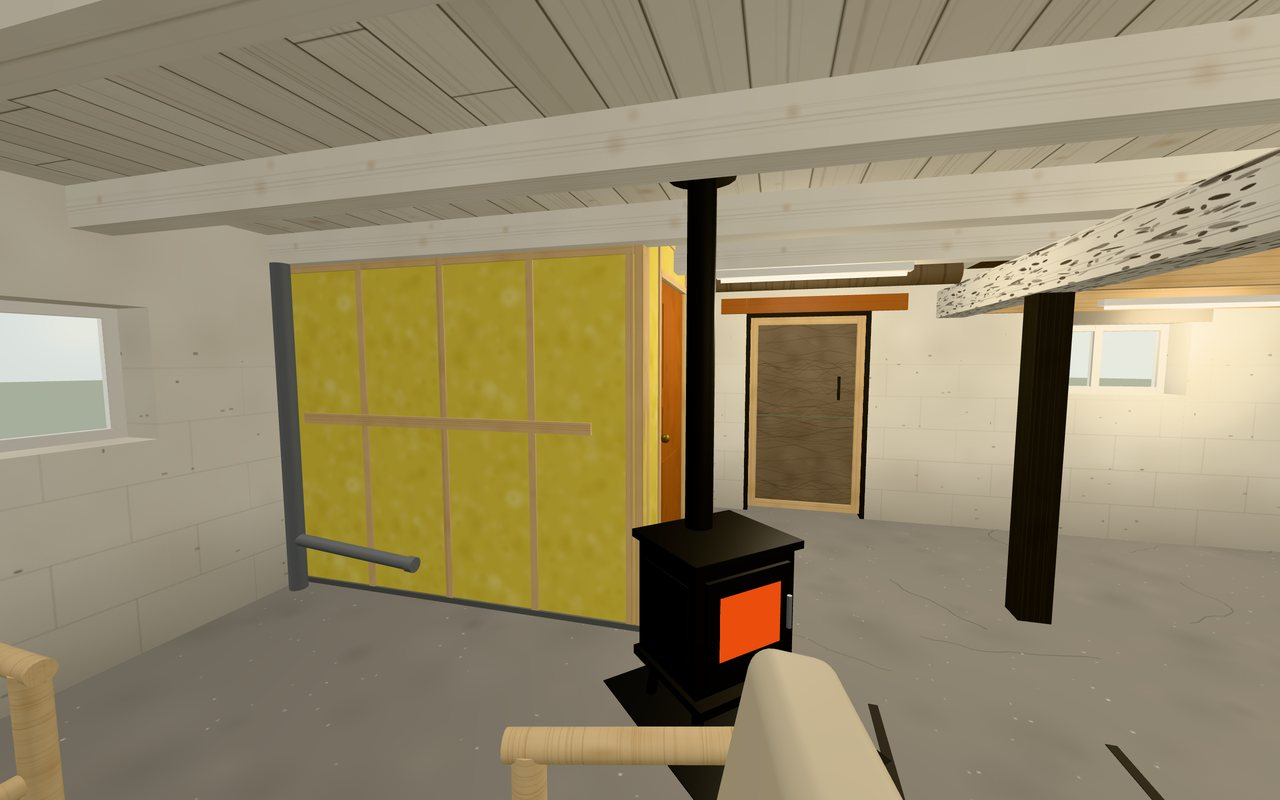
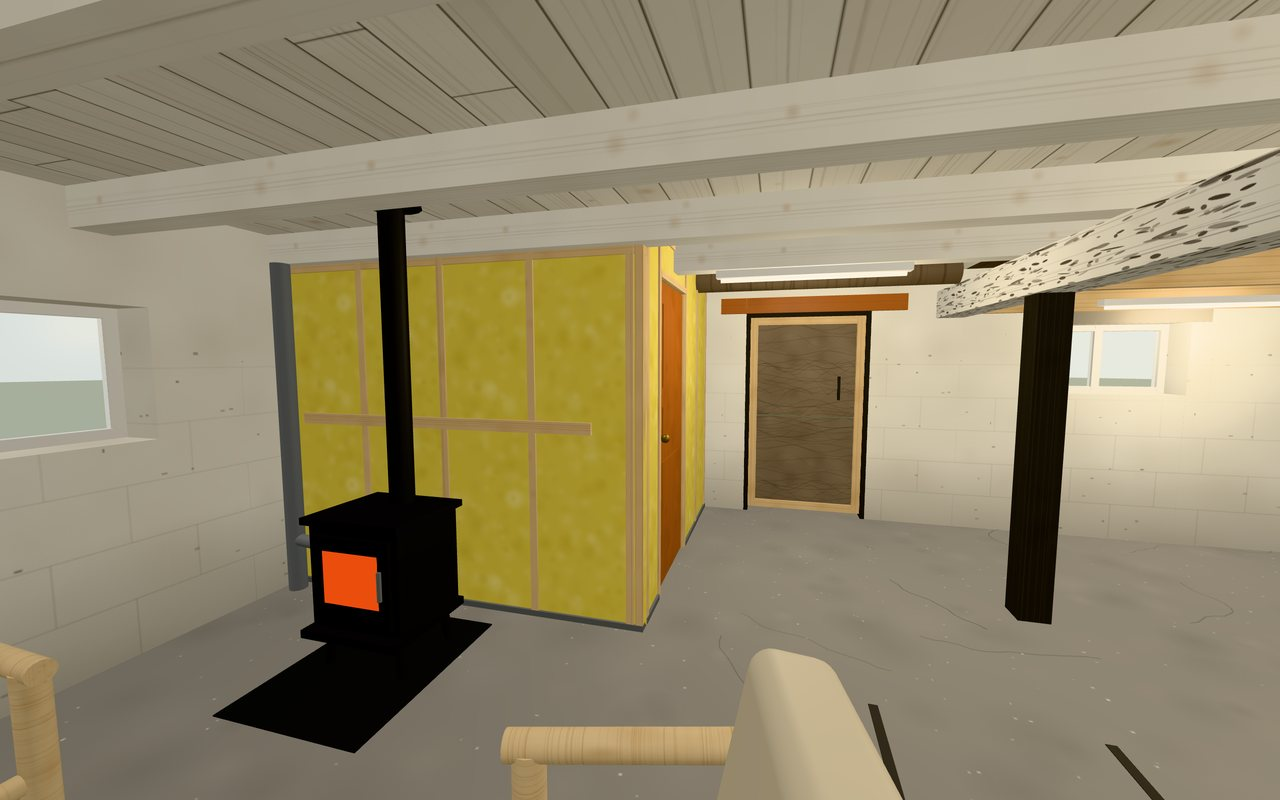
Ställ braskaminen mitt på nya rummets vägg
Kaminen står med ryggen mot regelväggen mot soffhörnan i stället för
vid ytterhörnet, med rökröret rakt upp genom taket.

Claude-Session: https://claude.ai/code/session_01Pv6CpKizXL3M9PiPypFNnz

Changed region(s): [[0.1562, 0.25, 0.375, 0.9375], [0.4688, 0.2188, 0.625, 0.9062], [0.5312, 0.9375, 0.5625, 1.0]]

diff --git a/stallet/src/dimensions.ts b/stallet/src/dimensions.ts
@@ -153,11 +153,16 @@ export const furniture = {
   },
 
   /**
-   * Braskamin i gjutjärn vid nya rummets ytterhörn, snett utåt mot rummet. `cornerGap` är
-   * avståndet från hörnet till kaminens mitt. Rökröret går rakt upp genom taket
-   * (`flue: 'wall'` drar det i stället bakåt genom en vägg).
+   * Braskamin i gjutjärn mitt på nya rummets vägg mot soffhörnan, vänd ut mot rummet.
+   * `wallGap` är luften mellan kaminens rygg och regelväggen. Rökröret går rakt upp genom
+   * taket (`flue: 'wall'` drar det i stället bakåt genom en vägg).
    */
-  stove: { cornerGap: 0.64, turn: -45, flue: 'ceiling' as 'ceiling' | 'wall' },
+  stove: {
+    z: newRoom.depthZ / 2,
+    wallGap: 0.3,
+    turn: -90,
+    flue: 'ceiling' as 'ceiling' | 'wall',
+  },
 
   /**
    * Husqvarna-vedspisen i hörnet köksgavel / soffvägg, upplyft till arbetshöjd och inmurad

diff --git a/stallet/src/furniture.ts b/stallet/src/furniture.ts
@@ -363,12 +363,11 @@ export function buildFurniture(m: Materials): THREE.Group {
   group.add(place(buildCoffeeTable(m), f.coffeeTable));
   for (const chair of f.armchairs) group.add(place(buildSeating(0.9, 1, m), chair));
   group.add(buildKitchen(m));
-  // Kaminen står på diagonalen ut från nya rummets ytterhörn.
-  const reach = f.stove.cornerGap / Math.SQRT2;
+  // Kaminen står med ryggen mot nya rummets vägg; 0,22 är halva kaminens djup.
   group.add(
     place(buildStove(m), {
-      x: D.newRoom.frontX - reach,
-      z: D.newRoom.depthZ + reach,
+      x: D.newRoom.frontX - f.stove.wallGap - 0.22,
+      z: f.stove.z,
       turn: f.stove.turn,
     }),
   );

diff --git a/stallet/README.md b/stallet/README.md
@@ -64,7 +64,7 @@ Lägena står under `furniture` i `src/dimensions.ts` – mittpunkt på golvet o
 - **Soffgrupp** – tresitssoffa mot soffväggen, soffbord och två fåtöljer.
 - **Kök** – öppen furubänk i vinkel med ugn, kokplatta, mikro och diskho, redskapslist på väggen, kyl/frys och det blå vitrinskåpet.
 - **Vedspis** – Husqvarna-spisen i hörnet köksgavel / soffvägg, upplyft till arbetshöjd (häll på 0,86 m) och inmurad i vitputsat murverk, med murstock i hörnet upp till taket.
-- **Braskamin** – gjutjärnskamin vid nya rummets ytterhörn, vänd snett ut mot rummet, med eldstadsplan och rökrör rakt upp genom taket. I modellen är det ungefär 0,4 m från kaminen till regelväggarna och 0,2 m från röret till närmaste takbjälke, så avstånden till brännbart material behöver kontrolleras innan den placeras så på riktigt.
+- **Braskamin** – gjutjärnskamin mitt på nya rummets vägg mot soffhörnan, vänd ut mot rummet, med eldstadsplan och rökrör rakt upp genom taket. I modellen är det 0,3 m från kaminens rygg till regelväggen, ungefär 0,25 m från röret till närmaste takbjälke och knappt 0,9 m till soffans gavel, så avstånden till brännbart material behöver kontrolleras innan den placeras så på riktigt.
 
 Murstocken och rökrörens dragning är antaganden – modellen vet inget om var det finns en rökkanal.
 
